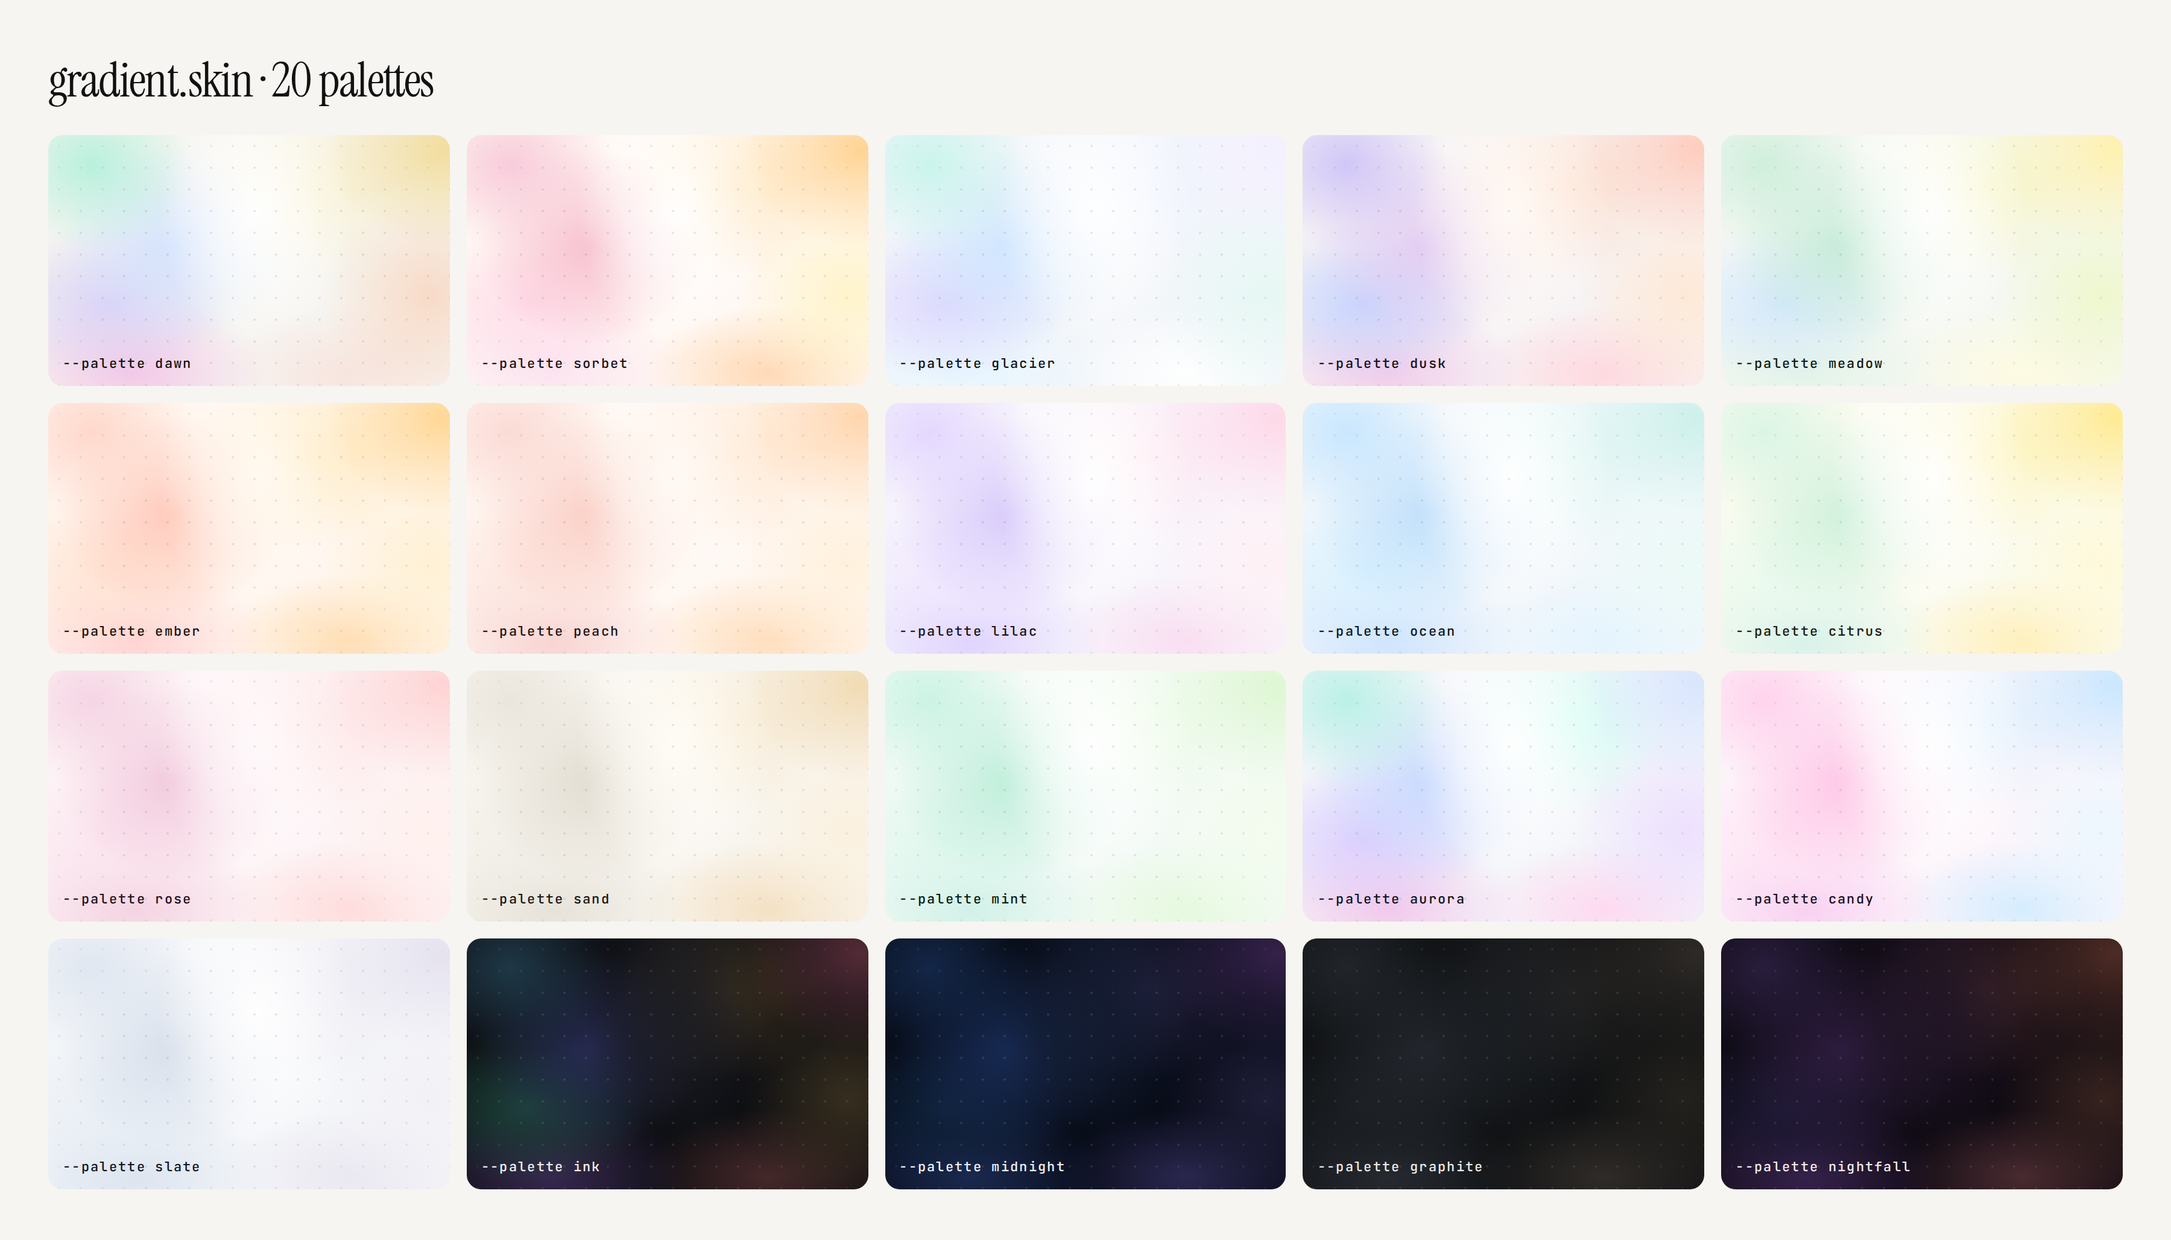
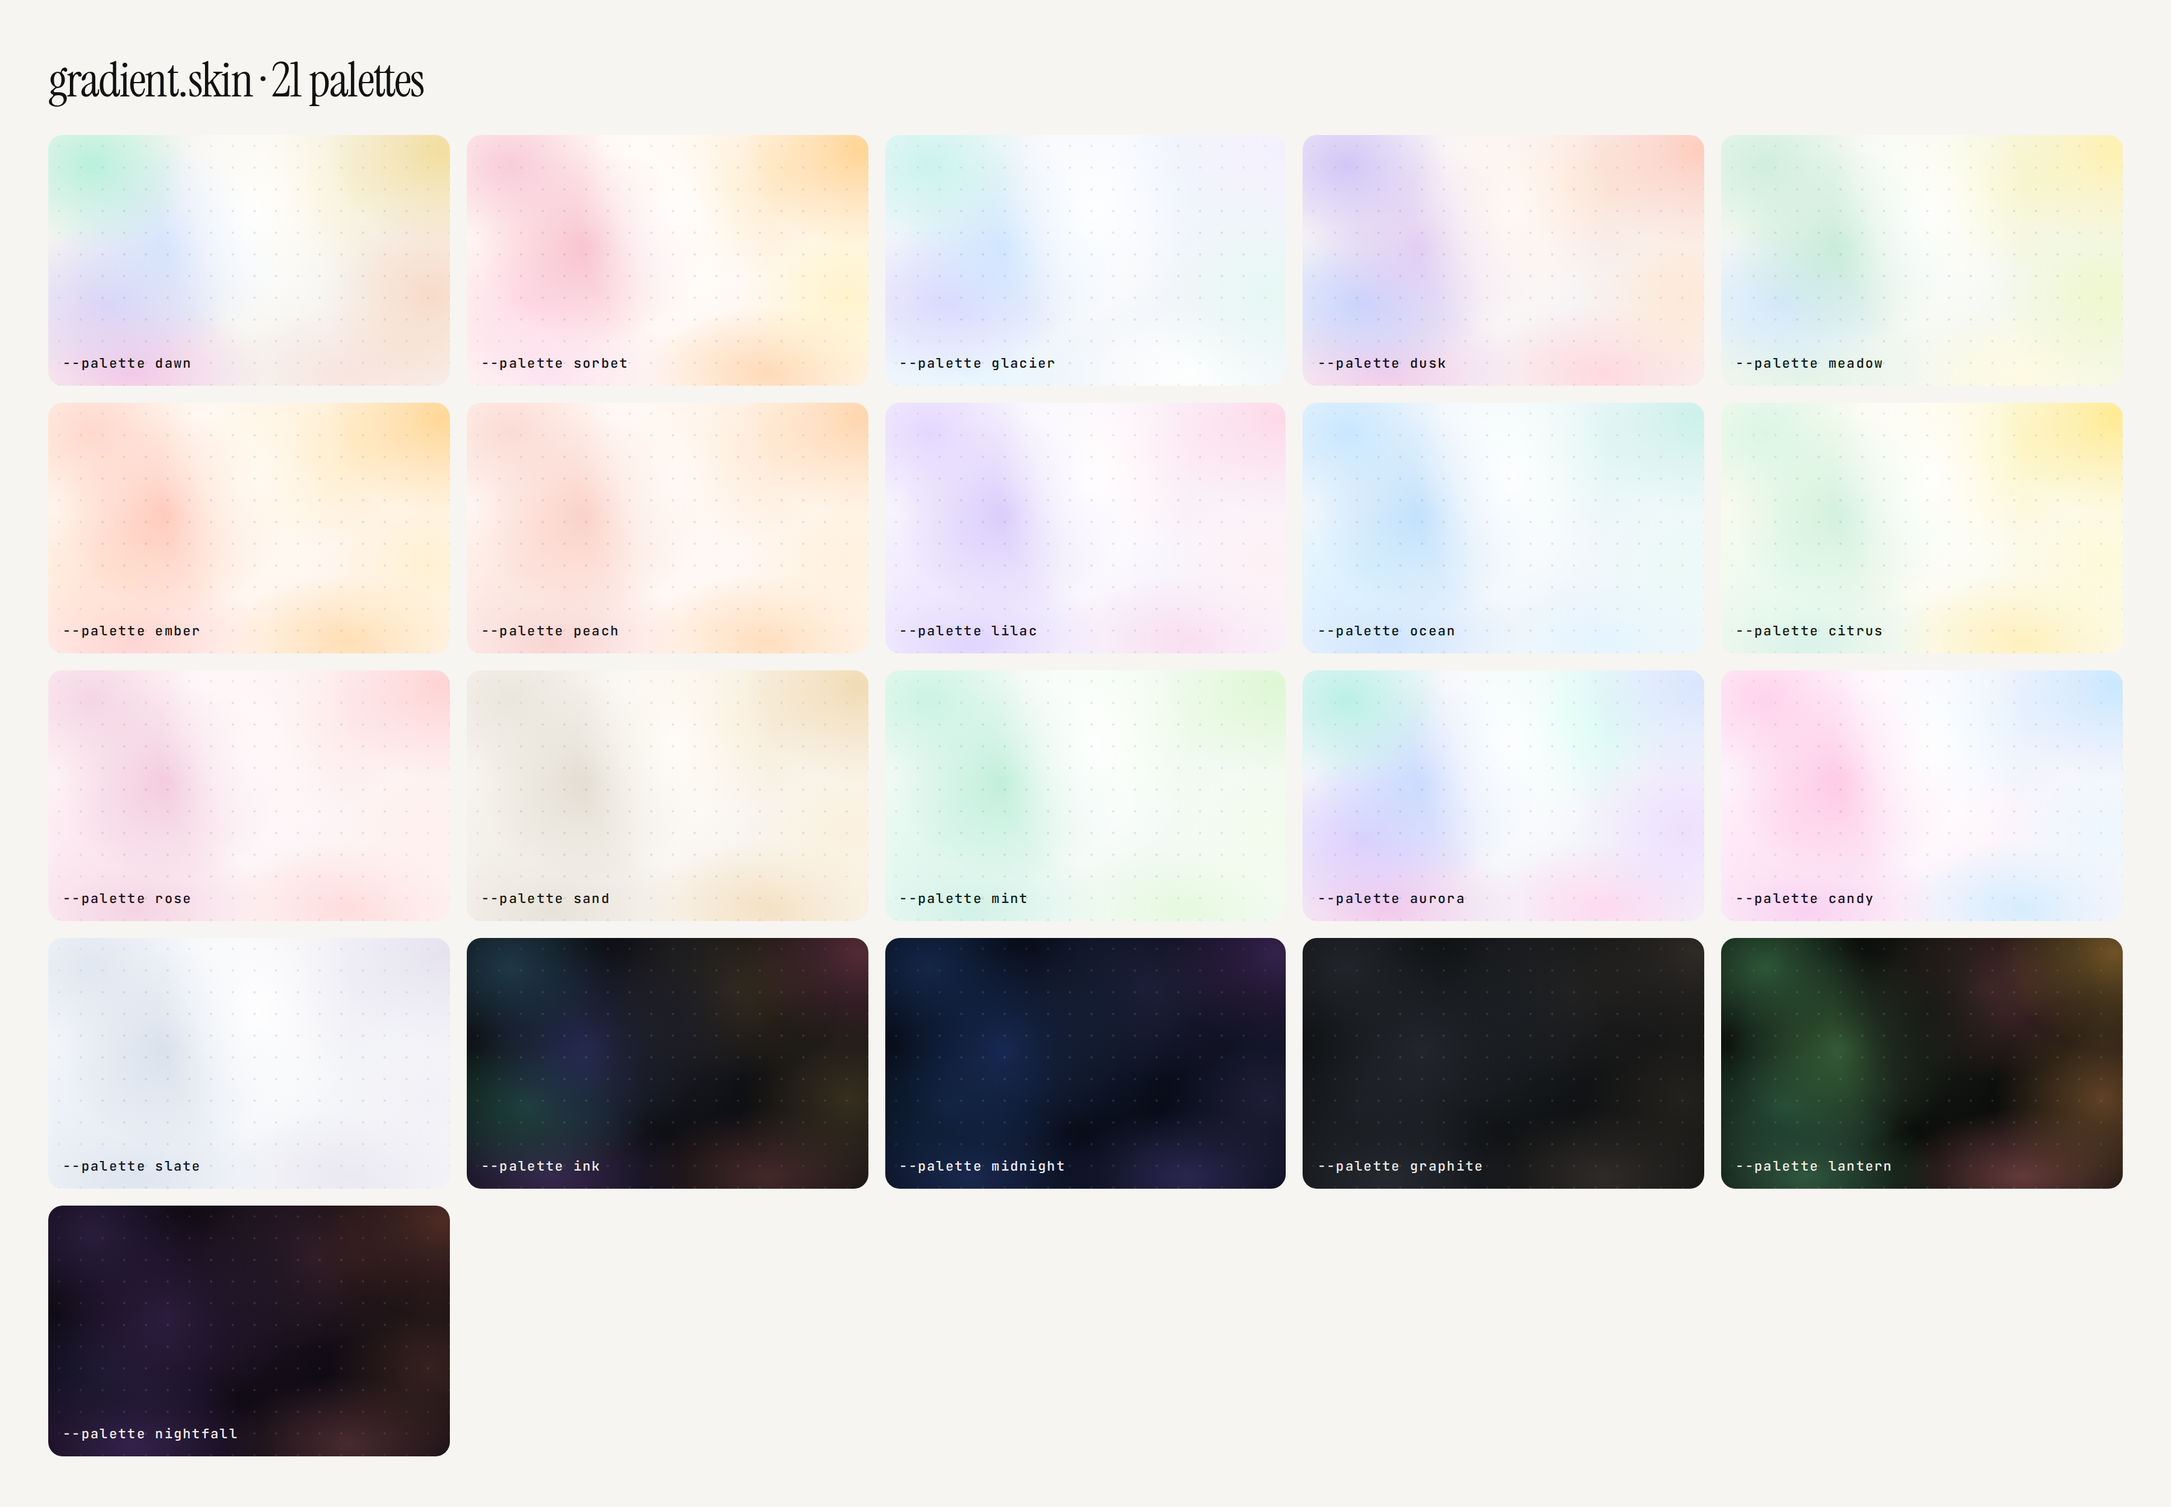
Add lantern dark palette; two-tweets article image
Claude-Session: https://claude.ai/code/session_01Pj2DqLmp4zxdSxdQUmTHv8

diff --git a/site/index.html b/site/index.html
@@ -572,6 +572,31 @@ h2{font-size:clamp(36px,4.5vw,56px);letter-spacing:-.02em;line-height:1;margin:0
   mask-image: radial-gradient(ellipse 90% 90% at 50% 50%, #000 40%, transparent 100%);
 }
 
+.sk-lantern {
+  --skin-base: #0b0d0b;
+  --skin-ink: #f1efe6;
+  position:relative; overflow:hidden; isolation:isolate;
+  background-color: var(--skin-base);
+  background-image:
+    radial-gradient(ellipse 34% 75% at 52% 30%, rgba(23,26,22,0.95) 0%, rgba(23,26,22,0.55) 38%, rgba(23,26,22,0.00) 72%),
+    radial-gradient(ellipse 37% 50% at 11% 12%, rgba(47,90,58,0.95) 0%, rgba(47,90,58,0.52) 32%, rgba(47,90,58,0.00) 68%),
+    radial-gradient(ellipse 42% 58% at 31% 44%, rgba(61,107,63,0.85) 0%, rgba(61,107,63,0.47) 32%, rgba(61,107,63,0.00) 68%),
+    radial-gradient(ellipse 45% 46% at 15% 67%, rgba(39,80,58,0.85) 0%, rgba(39,80,58,0.47) 32%, rgba(39,80,58,0.00) 68%),
+    radial-gradient(ellipse 49% 46% at 21% 95%, rgba(52,95,68,0.90) 0%, rgba(52,95,68,0.50) 32%, rgba(52,95,68,0.00) 68%),
+    radial-gradient(ellipse 43% 57% at 98% 6%, rgba(122,90,42,0.90) 0%, rgba(122,90,42,0.50) 32%, rgba(122,90,42,0.00) 68%),
+    radial-gradient(ellipse 40% 53% at 65% 21%, rgba(112,58,60,0.80) 0%, rgba(112,58,60,0.44) 32%, rgba(112,58,60,0.00) 68%),
+    radial-gradient(ellipse 40% 61% at 95% 64%, rgba(110,74,42,0.85) 0%, rgba(110,74,42,0.47) 32%, rgba(110,74,42,0.00) 68%),
+    radial-gradient(ellipse 46% 40% at 75% 95%, rgba(110,63,63,0.90) 0%, rgba(110,63,63,0.50) 32%, rgba(110,63,63,0.00) 68%);
+  background-repeat:no-repeat; background-size:100% 100%;
+  color: var(--skin-ink);
+}
+.sk-lantern::before {
+  content:""; position:absolute; inset:0; pointer-events:none;
+  background-image: radial-gradient(rgba(255,255,255,.10) 0.9px, transparent 1.1px);
+  background-size: 22px 22px;
+  mask-image: radial-gradient(ellipse 90% 90% at 50% 50%, #000 40%, transparent 100%);
+}
+
 .sk-nightfall {
   --skin-base: #0e0a12;
   --skin-ink: #f4ece6;
@@ -597,7 +622,7 @@ h2{font-size:clamp(36px,4.5vw,56px);letter-spacing:-.02em;line-height:1;margin:0
   mask-image: radial-gradient(ellipse 90% 90% at 50% 50%, #000 40%, transparent 100%);
 }
 
-.sk-ink,.sk-midnight,.sk-graphite,.sk-nightfall{color:#f2f0ea}
+.sk-ink,.sk-midnight,.sk-graphite,.sk-nightfall,.sk-lantern{color:#f2f0ea}
 .steps{display:grid;grid-template-columns:repeat(auto-fit,minmax(280px,1fr));gap:32px} .step h3{font-size:28px;margin:0 0 8px;letter-spacing:-.02em} .step p{opacity:.62;line-height:1.55;margin:0 0 12px}
 pre{background:#121212;color:#f2f0ea;border-radius:12px;padding:18px 20px;font-size:13px;line-height:1.9;overflow-x:auto;margin:0;white-space:pre} pre.soft{white-space:pre-wrap}
 footer{text-align:center;padding:48px 6vw 64px;font-size:12px;opacity:.5} footer a{color:inherit}
@@ -637,9 +662,9 @@ footer{text-align:center;padding:48px 6vw 64px;font-size:12px;opacity:.5} footer
 </section>
 
 <section class="plain" id="palettes">
-  <h2 class="serif">Twenty palettes, <em>plus yours.</em></h2>
-  <p class="lede">Every tile is the same recipe with a different colour set. Sixteen light, four dark, and any of them has a dark twin. Pass a brand hex and it derives one for you.</p>
-  <div class="grid"><a class="tile sk-dawn" href="#install"><span class="mono">--palette dawn</span></a><a class="tile sk-sorbet" href="#install"><span class="mono">--palette sorbet</span></a><a class="tile sk-glacier" href="#install"><span class="mono">--palette glacier</span></a><a class="tile sk-dusk" href="#install"><span class="mono">--palette dusk</span></a><a class="tile sk-meadow" href="#install"><span class="mono">--palette meadow</span></a><a class="tile sk-ember" href="#install"><span class="mono">--palette ember</span></a><a class="tile sk-peach" href="#install"><span class="mono">--palette peach</span></a><a class="tile sk-lilac" href="#install"><span class="mono">--palette lilac</span></a><a class="tile sk-ocean" href="#install"><span class="mono">--palette ocean</span></a><a class="tile sk-citrus" href="#install"><span class="mono">--palette citrus</span></a><a class="tile sk-rose" href="#install"><span class="mono">--palette rose</span></a><a class="tile sk-sand" href="#install"><span class="mono">--palette sand</span></a><a class="tile sk-mint" href="#install"><span class="mono">--palette mint</span></a><a class="tile sk-aurora" href="#install"><span class="mono">--palette aurora</span></a><a class="tile sk-candy" href="#install"><span class="mono">--palette candy</span></a><a class="tile sk-slate" href="#install"><span class="mono">--palette slate</span></a><a class="tile sk-ink" href="#install"><span class="mono">--palette ink</span></a><a class="tile sk-midnight" href="#install"><span class="mono">--palette midnight</span></a><a class="tile sk-graphite" href="#install"><span class="mono">--palette graphite</span></a><a class="tile sk-nightfall" href="#install"><span class="mono">--palette nightfall</span></a></div>
+  <h2 class="serif">Twenty-one palettes, <em>plus yours.</em></h2>
+  <p class="lede">Every tile is the same recipe with a different colour set. Sixteen light, five dark, and any of them has a dark twin. Pass a brand hex and it derives one for you.</p>
+  <div class="grid"><a class="tile sk-dawn" href="#install"><span class="mono">--palette dawn</span></a><a class="tile sk-sorbet" href="#install"><span class="mono">--palette sorbet</span></a><a class="tile sk-glacier" href="#install"><span class="mono">--palette glacier</span></a><a class="tile sk-dusk" href="#install"><span class="mono">--palette dusk</span></a><a class="tile sk-meadow" href="#install"><span class="mono">--palette meadow</span></a><a class="tile sk-ember" href="#install"><span class="mono">--palette ember</span></a><a class="tile sk-peach" href="#install"><span class="mono">--palette peach</span></a><a class="tile sk-lilac" href="#install"><span class="mono">--palette lilac</span></a><a class="tile sk-ocean" href="#install"><span class="mono">--palette ocean</span></a><a class="tile sk-citrus" href="#install"><span class="mono">--palette citrus</span></a><a class="tile sk-rose" href="#install"><span class="mono">--palette rose</span></a><a class="tile sk-sand" href="#install"><span class="mono">--palette sand</span></a><a class="tile sk-mint" href="#install"><span class="mono">--palette mint</span></a><a class="tile sk-aurora" href="#install"><span class="mono">--palette aurora</span></a><a class="tile sk-candy" href="#install"><span class="mono">--palette candy</span></a><a class="tile sk-slate" href="#install"><span class="mono">--palette slate</span></a><a class="tile sk-ink" href="#install"><span class="mono">--palette ink</span></a><a class="tile sk-midnight" href="#install"><span class="mono">--palette midnight</span></a><a class="tile sk-graphite" href="#install"><span class="mono">--palette graphite</span></a><a class="tile sk-lantern" href="#install"><span class="mono">--palette lantern</span></a><a class="tile sk-nightfall" href="#install"><span class="mono">--palette nightfall</span></a></div>
 </section>
 
 <section class="plain" id="install">

diff --git a/site/build.py b/site/build.py
@@ -87,7 +87,7 @@ h2{{font-size:clamp(36px,4.5vw,56px);letter-spacing:-.02em;line-height:1;margin:
 .grid{{display:grid;grid-template-columns:repeat(3,1fr);gap:18px}}
 .tile{{display:flex;align-items:flex-end;aspect-ratio:16/10;border-radius:18px;padding:18px;text-decoration:none;font-size:14px;color:inherit;overflow:hidden;transition:transform .2s}} .tile:hover{{transform:translateY(-2px)}}
 {tiles_css}
-.sk-ink,.sk-midnight,.sk-graphite,.sk-nightfall{{color:#f2f0ea}}
+.sk-ink,.sk-midnight,.sk-graphite,.sk-nightfall,.sk-lantern{{color:#f2f0ea}}
 .steps{{display:grid;grid-template-columns:repeat(auto-fit,minmax(280px,1fr));gap:32px}} .step h3{{font-size:28px;margin:0 0 8px;letter-spacing:-.02em}} .step p{{opacity:.62;line-height:1.55;margin:0 0 12px}}
 pre{{background:#121212;color:#f2f0ea;border-radius:12px;padding:18px 20px;font-size:13px;line-height:1.9;overflow-x:auto;margin:0;white-space:pre}} pre.soft{{white-space:pre-wrap}}
 footer{{text-align:center;padding:48px 6vw 64px;font-size:12px;opacity:.5}} footer a{{color:inherit}}
@@ -127,8 +127,8 @@ footer{{text-align:center;padding:48px 6vw 64px;font-size:12px;opacity:.5}} foot
 </section>
 
 <section class="plain" id="palettes">
-  <h2 class="serif">Twenty palettes, <em>plus yours.</em></h2>
-  <p class="lede">Every tile is the same recipe with a different colour set. Sixteen light, four dark, and any of them has a dark twin. Pass a brand hex and it derives one for you.</p>
+  <h2 class="serif">Twenty-one palettes, <em>plus yours.</em></h2>
+  <p class="lede">Every tile is the same recipe with a different colour set. Sixteen light, five dark, and any of them has a dark twin. Pass a brand hex and it derives one for you.</p>
   <div class="grid">{tiles}</div>
 </section>
 

diff --git a/gradient-skin/scripts/skin.py b/gradient-skin/scripts/skin.py
@@ -63,6 +63,8 @@ PALETTES = {
         "base": "#070b16", "leak": "#131c31", "ink": "#eef1f8", "dark": True, "mood": "deep navy; dashboards"},
     "graphite": {"cool": ["#22262b", "#262a31", "#1d2126", "#292d34"], "warm": ["#2c2926", "#312c28", "#27241f", "#332e2a"],
         "base": "#0f1113", "leak": "#1b1e22", "ink": "#ecebe7", "dark": True, "mood": "neutral dark; nearly monochrome"},
+    "lantern": {"cool": ["#2f5a3a", "#3d6b3f", "#27503a", "#345f44"], "warm": ["#703a3c", "#7a5a2a", "#6e4a2a", "#6e3f3f"],
+        "base": "#0b0d0b", "leak": "#171a16", "ink": "#f1efe6", "dark": True, "mood": "coral, gold and green on black; the halftone one"},
     "nightfall": {"cool": ["#2a1e3f", "#331f47", "#1f1b38", "#3a2452"], "warm": ["#4a2a2a", "#542f26", "#3d2620", "#4f2e33"],
         "base": "#0e0a12", "leak": "#201526", "ink": "#f4ece6", "dark": True, "mood": "plum and rust; warm dark"},
 }

diff --git a/gradient-skin/SKILL.md b/gradient-skin/SKILL.md
@@ -1,6 +1,6 @@
 ---
 name: gradient-skin
-description: Generate soft pastel "mesh" gradient backgrounds and editorial hero sections — the light-on-paper look from good landing pages (Linear, Vercel, Arc, Raycast), not the blue-purple-pink one every AI defaults to. Blurred colour blobs, a white light-leak, a faint dot grid, optional grain and drift animation, serif display type with an italic second line. Use this whenever someone asks for a gradient background, a mesh/aurora/blurred/pastel/dreamy/holographic gradient, a "soft" or "glowy" hero, a landing page hero, an OG image, an X/Twitter or social card, a wallpaper, a dark-mode version of any of those, or wants a gradient derived from a brand colour. Also use it when they only want the CSS for such a background, a React component, or a quick PNG. Outputs HTML, CSS, SVG, PNG, or a React component. 20 built-in palettes plus brand-derived ones.
+description: Generate soft pastel "mesh" gradient backgrounds and editorial hero sections — the light-on-paper look from good landing pages (Linear, Vercel, Arc, Raycast), not the blue-purple-pink one every AI defaults to. Blurred colour blobs, a white light-leak, a faint dot grid, optional grain and drift animation, serif display type with an italic second line. Use this whenever someone asks for a gradient background, a mesh/aurora/blurred/pastel/dreamy/holographic gradient, a "soft" or "glowy" hero, a landing page hero, an OG image, an X/Twitter or social card, a wallpaper, a dark-mode version of any of those, or wants a gradient derived from a brand colour. Also use it when they only want the CSS for such a background, a React component, or a quick PNG. Outputs HTML, CSS, SVG, PNG, or a React component. 21 built-in palettes plus brand-derived ones.
 ---
 
 # gradient.skin — pastel mesh gradients that look like light on paper
@@ -15,7 +15,7 @@ script. Open the references only when needed:
 
 - `references/recipe.md` — the CSS anatomy explained, for hand-writing it into React / Tailwind / Svelte
   / plain CSS. Read when the user wants it *inside their own codebase* rather than as a file.
-- `references/palettes.md` — all 20 palettes with moods, and how the brand-colour derivation works.
+- `references/palettes.md` — all 21 palettes with moods, and how the brand-colour derivation works.
 
 ## Quick start
 
@@ -52,7 +52,7 @@ to stdout.
 
 | Flag | What it does | Good values |
 |---|---|---|
-| `--palette` | colour family | 16 light: `dawn` (reference) `sorbet` `glacier` `dusk` `meadow` `ember` `peach` `lilac` `ocean` `citrus` `rose` `sand` `mint` `aurora` `candy` `slate` · 4 dark: `ink` `midnight` `graphite` `nightfall` |
+| `--palette` | colour family | 16 light: `dawn` (reference) `sorbet` `glacier` `dusk` `meadow` `ember` `peach` `lilac` `ocean` `citrus` `rose` `sand` `mint` `aurora` `candy` `slate` · 5 dark: `ink` `midnight` `graphite` `nightfall` `lantern` |
 | `--from-brand #hex` | derive a palette from one colour | keeps the brand hue on the cool side, complement on the warm side |
 | `--dark` | dark twin of any palette or brand | blobs drop to ~18% lightness, grid flips to white |
 | `--colors` | your own 8 hexes, 4 cool then 4 warm | every one ≥ 80% lightness (light) or ≤ 35% (dark) |
@@ -122,7 +122,7 @@ top of a spec is a cheap way to explore.
 - "softer / dreamier" → `--intensity 0.7`, maybe `--grain 0.05`
 - "more colour / punchier" → `--intensity 1.25` or `--layout corners`
 - "match our brand" → `--from-brand "#hex"`; add `--dark` for the dark mode
-- "dark mode" → `--dark` (any palette) or `--palette ink|midnight|graphite|nightfall`
+- "dark mode" → `--dark` (any palette) or `--palette ink|midnight|graphite|nightfall|lantern`
 - "make it move / flowing / like water" → `--animate`
 - "left-aligned / more editorial" → `--align left --display-font "Fraunces"`
 - "put it behind my existing page" → `--blank --format css`, wrap content in `.skin` (recipe.md)

diff --git a/launch/article.md b/launch/article.md
@@ -31,7 +31,7 @@ Nobody needed the code. Everyone already knew.
 
 That gradient is the sound of an AI saying "make it look modern." It's in the Tailwind docs, it's in ten thousand tutorials, it's the first thing every model reaches for when nobody tells it what beautiful means. `from-blue-500 via-purple-500 to-pink-500`. You've shipped it. I've shipped it.
 
-*[image: images/article-thumb.png]*
+*[image: images/article-two-tweets.png]*
 
 Meanwhile the landing pages people actually screenshot and send each other look nothing like that. Linear. Arc. Raycast. Half the good YC pages this year. Same trick every time: a sheet of near-white paper with soft pools of colour bleeding in from the edges, a dot grid you can barely see, one serif headline, second line in italic.
 
@@ -74,7 +74,7 @@ The script underneath is plain Python, no packages, and it outputs whatever you 
 - an SVG if there's no browser around
 - PNGs at any size, for OG images, X cards, wallpapers
 
-Twenty palettes are built in, sixteen light and four dark, and any of them has a dark twin. Give it a brand colour and it derives one that keeps the temperature split.
+Twenty-one palettes are built in, sixteen light and five dark, and any of them has a dark twin. Give it a brand colour and it derives one that keeps the temperature split.
 
 *[image: images/one-prompt.png]*
 

diff --git a/gradient-skin/references/palettes.md b/gradient-skin/references/palettes.md
@@ -33,6 +33,7 @@ With `--layout split` the cool four sit on the left, the warm four on the right.
 | `midnight` | navy · indigo · purple | deep blue; analytics, dev tools |
 | `graphite` | warm and cool greys | nearly monochrome; luxury, hardware |
 | `nightfall` | plum · violet · rust | warm dark; music, nightlife |
+| `lantern` | coral · gold · green on black | the halftone one; festivals, food, culture |
 
 Any light palette also has a dark twin: `--palette meadow --dark`.
 

diff --git a/launch/x-posts.md b/launch/x-posts.md
@@ -41,7 +41,7 @@ the image does the selling. Lowercase is fine on X; the serif in the image carri
 
 **2/** · image: `images/palettes.png`
 
-> twenty palettes built in, sixteen light and four dark, and every one has a dark twin.
+> twenty-one palettes built in, sixteen light and five dark, and every one has a dark twin.
 > or give it your brand hex and it derives one. `--from-brand` does the rest
 
 **3/** · image: `images/one-prompt.png`
